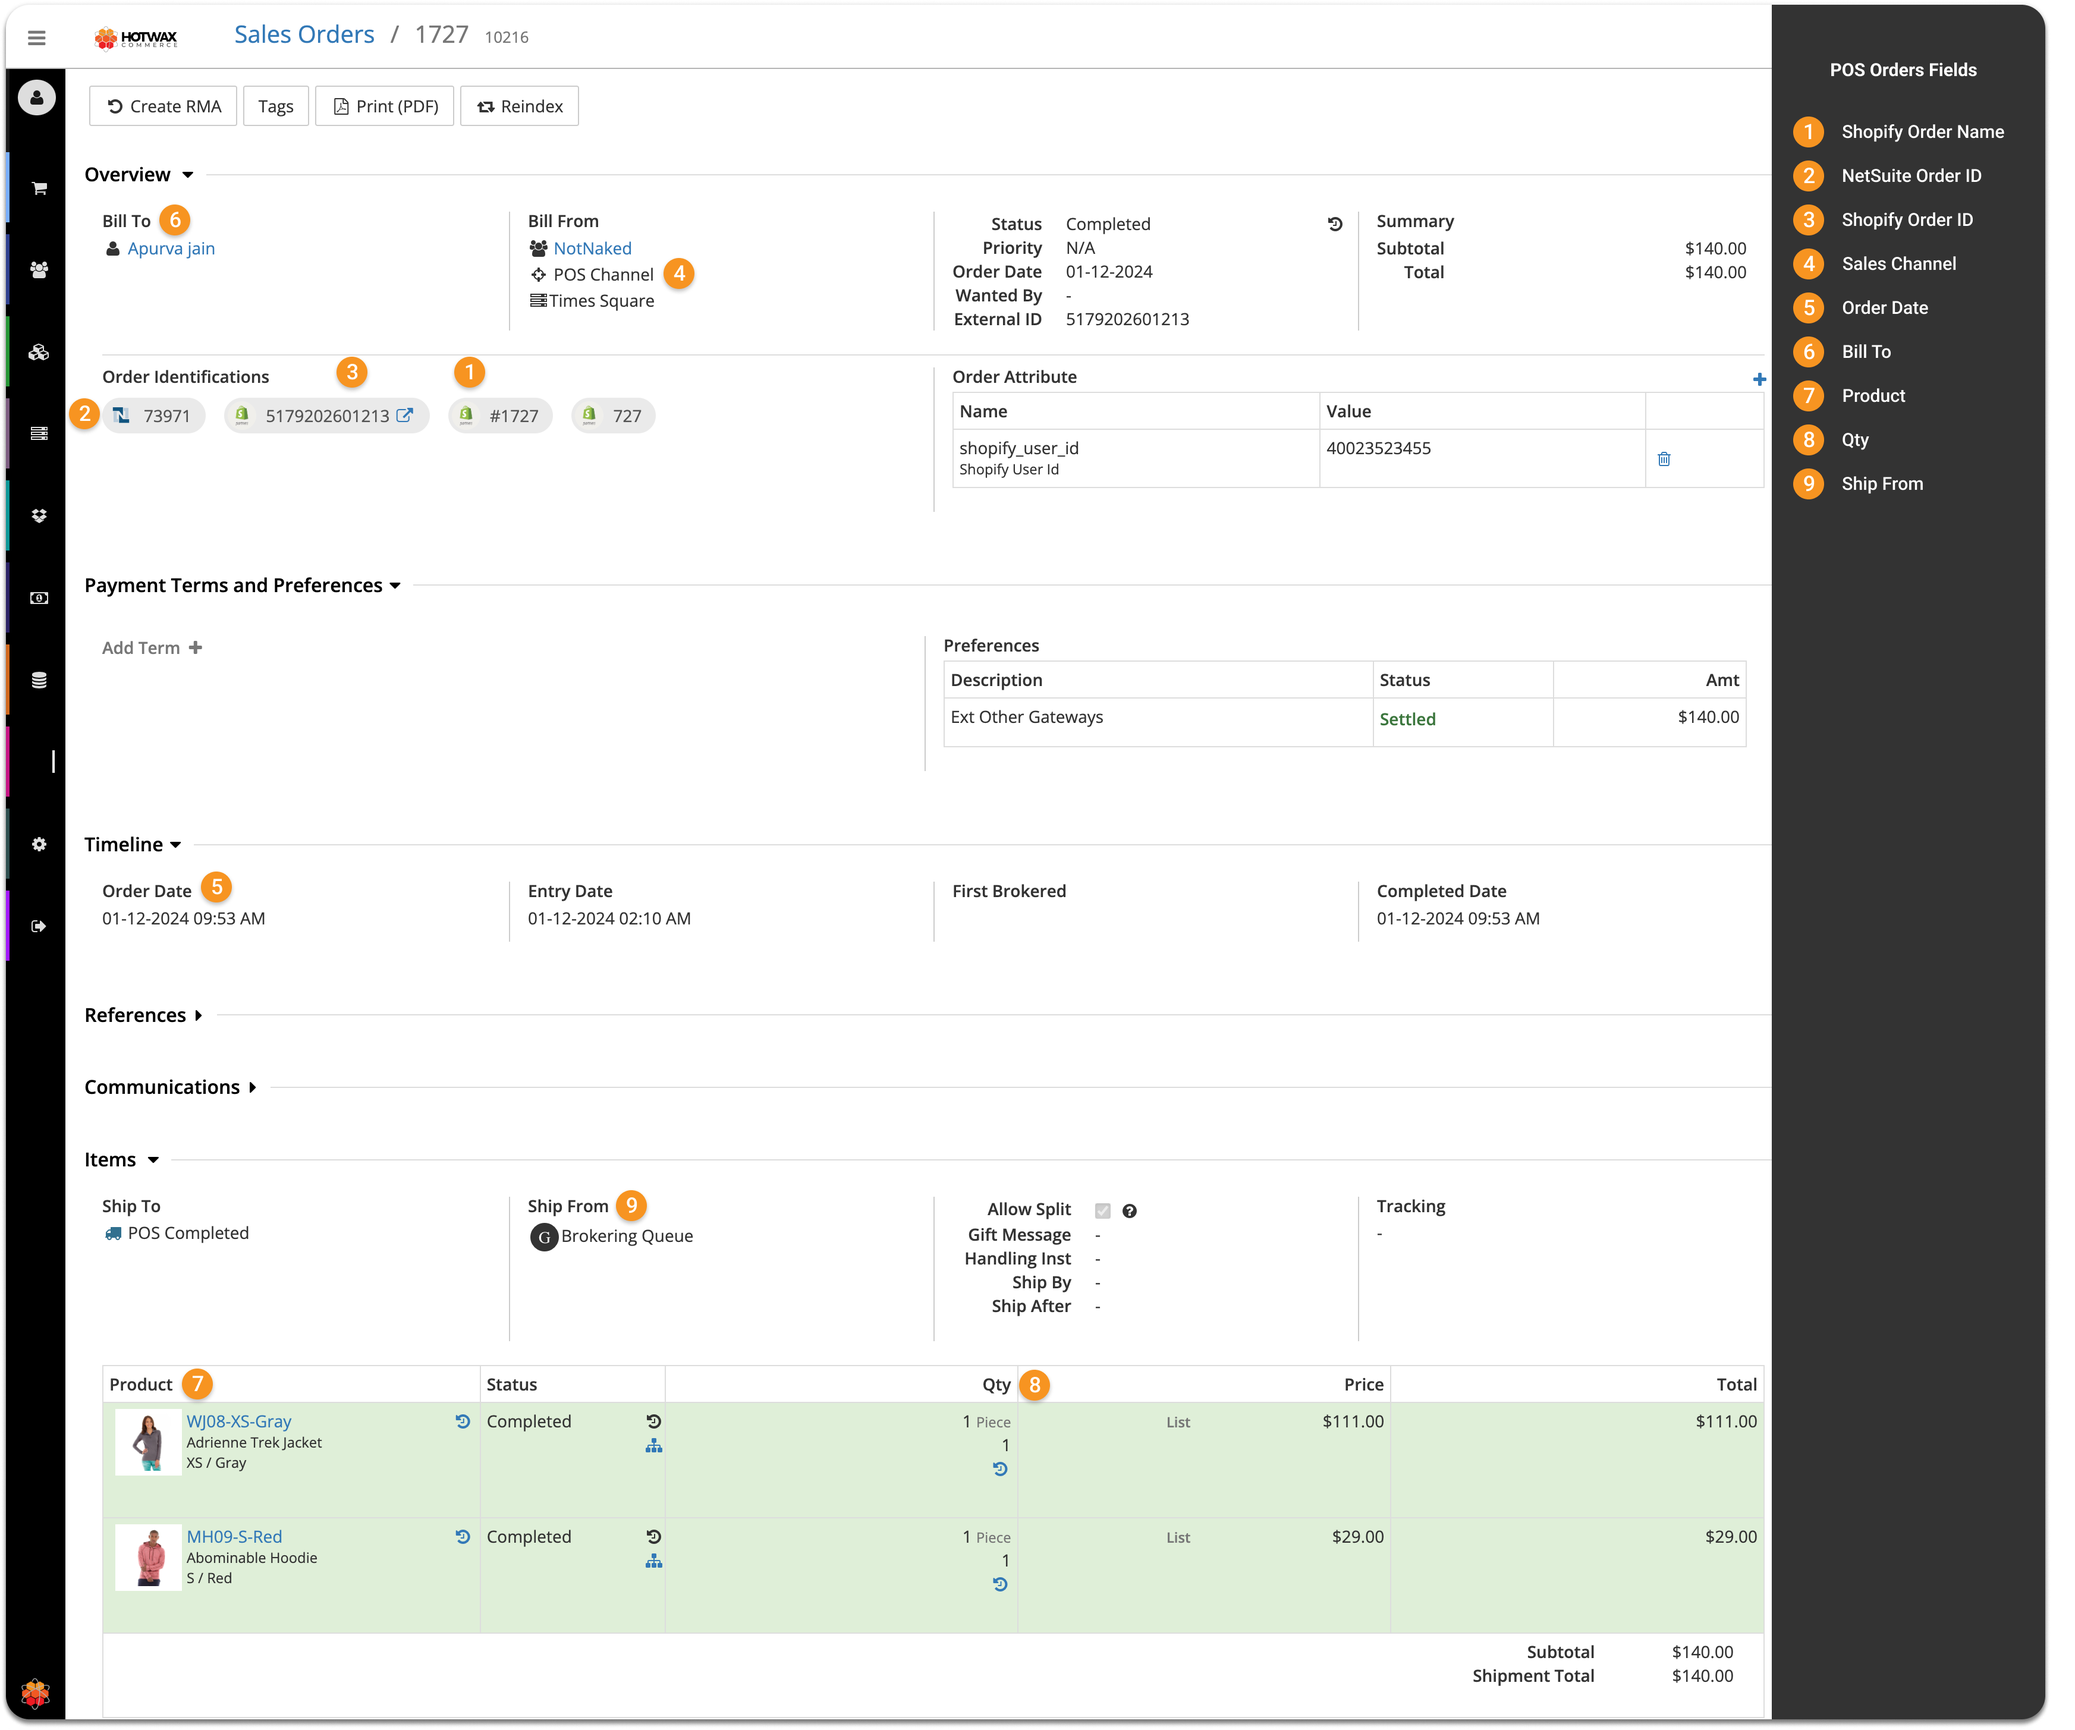
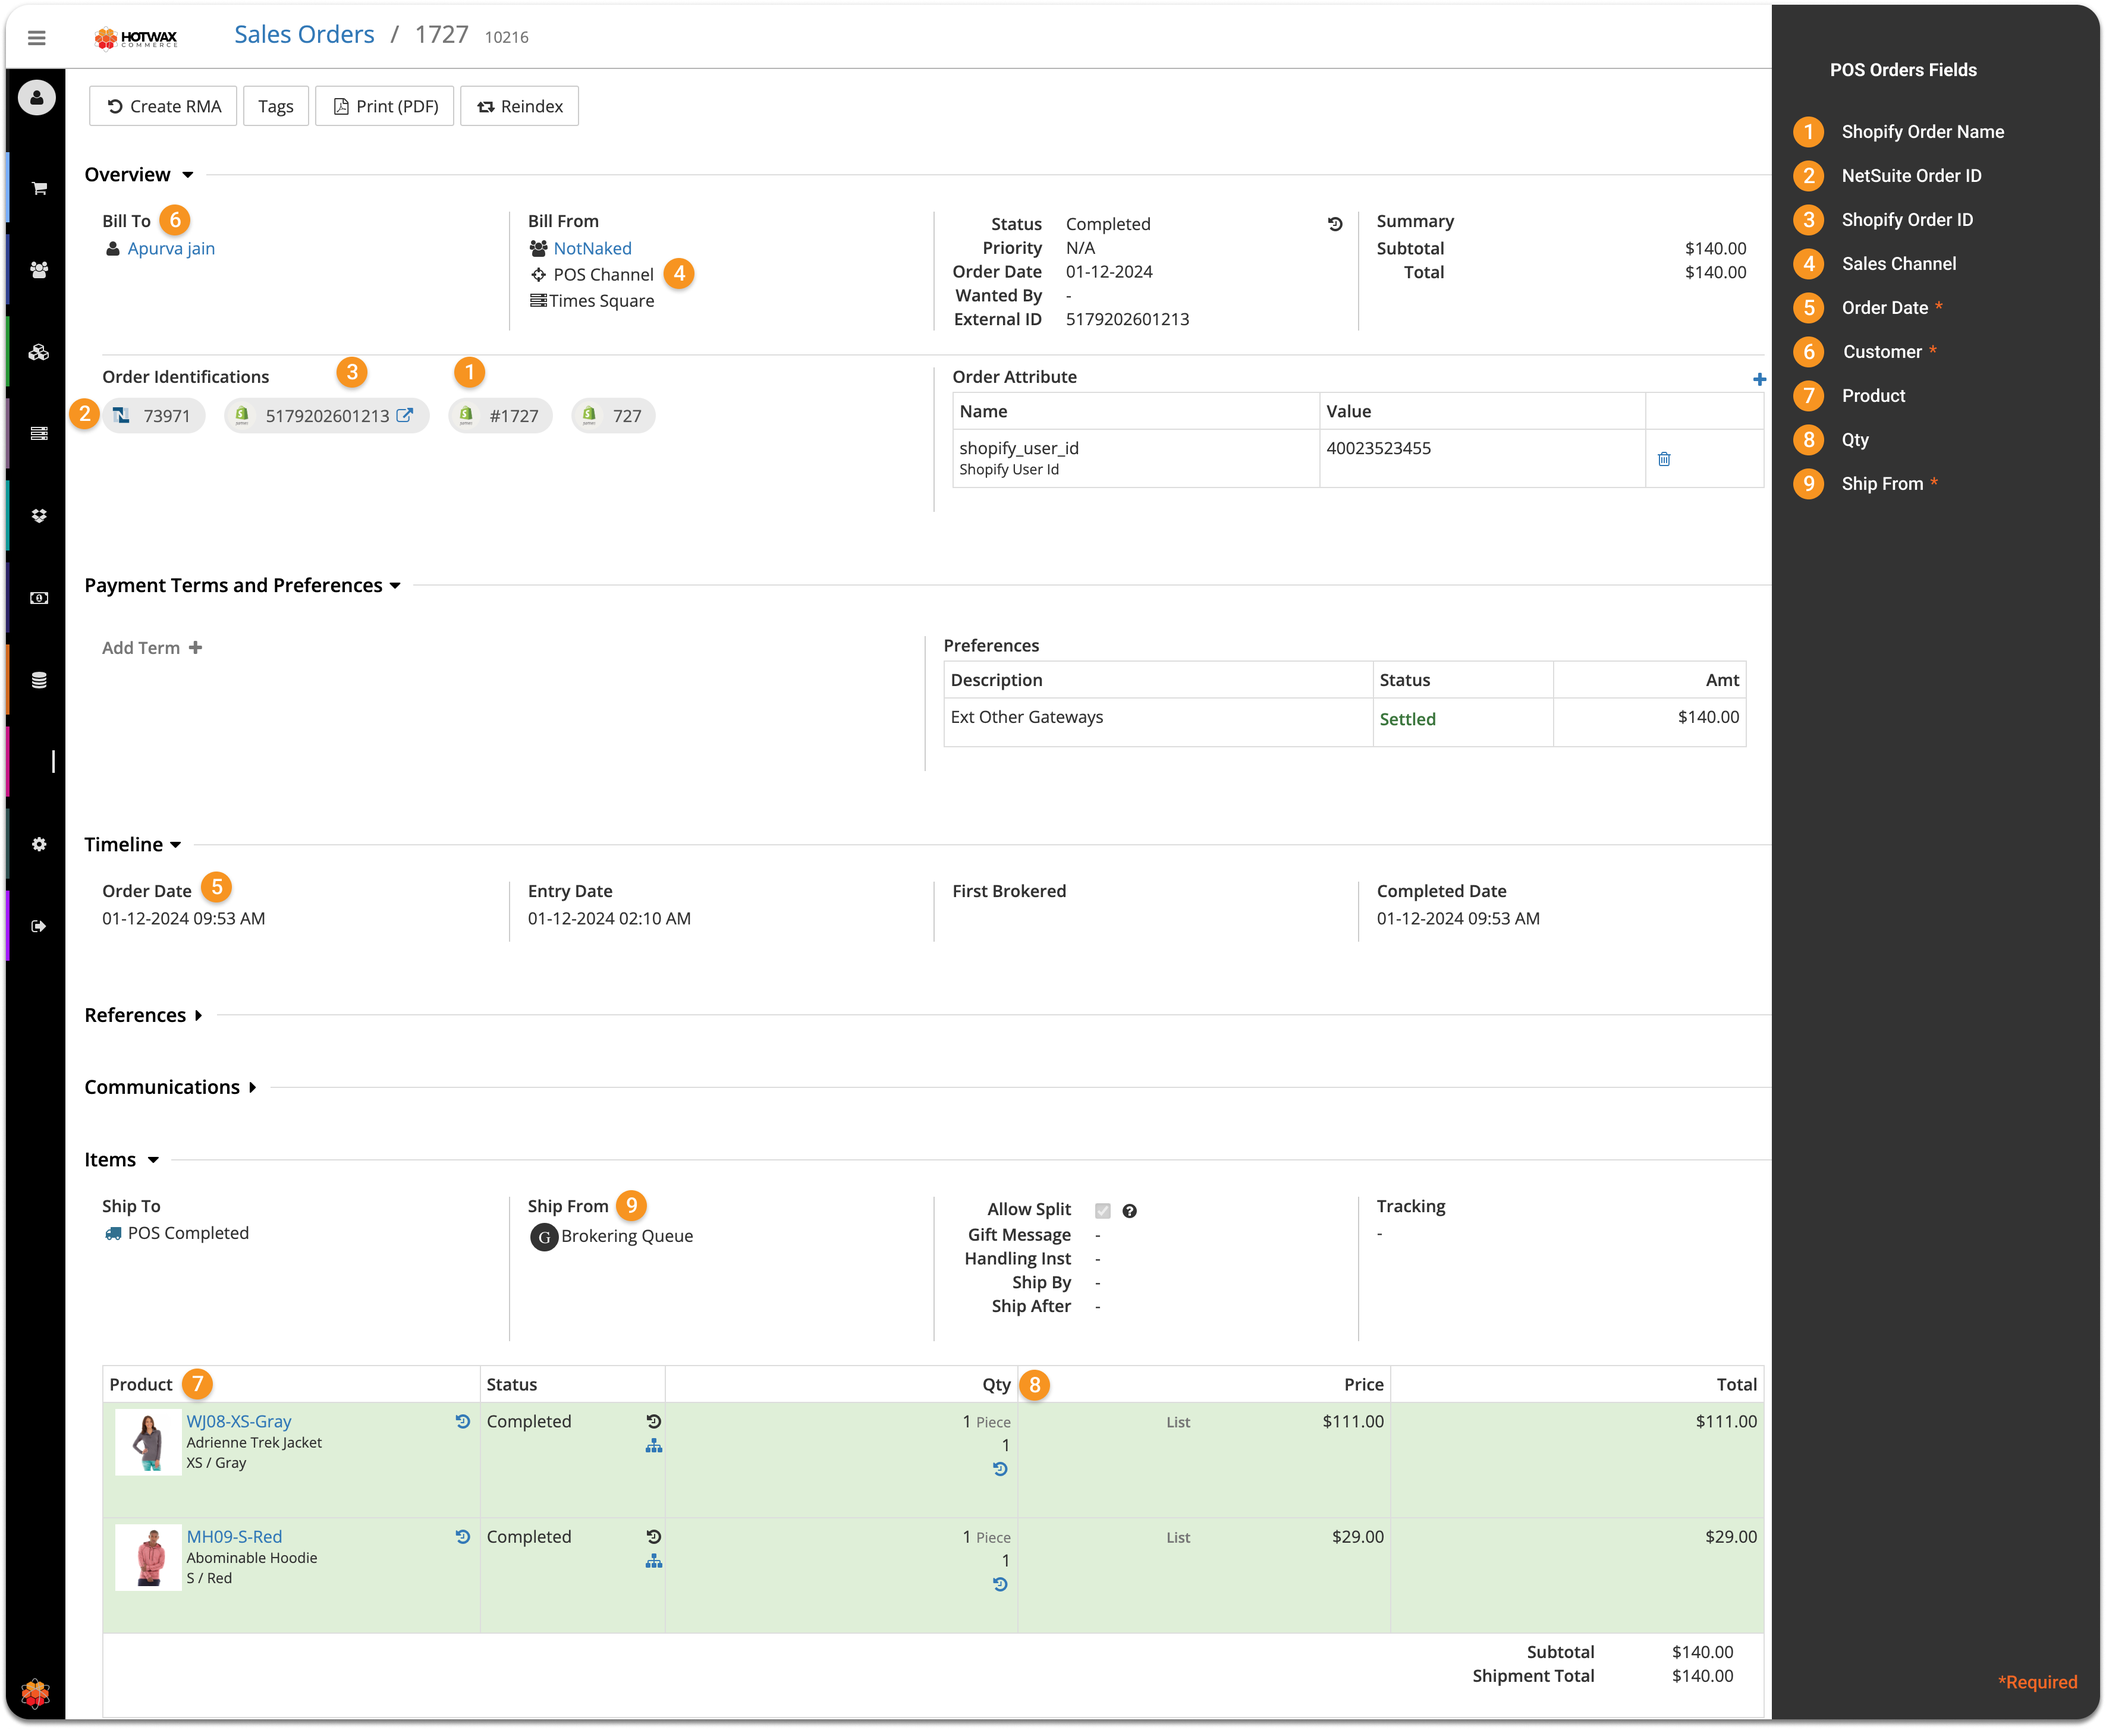
GITBOOK-97: updated mappings for pos orders

diff --git a/netsuite/Flows/SalesOrder/posOrders.md b/netsuite/Flows/SalesOrder/posOrders.md
@@ -22,9 +22,27 @@ HotWax identifies POS completed orders that need to be synced to NetSuite by che
 
 Orders that match these criteria are exported to an SFTP location in a CSV file.
 
+**SFTP Locations**
+
+```
+/home/{sftp-username}/netsuite/cashsale/export
+```
+
+{% hint style="warning" %}
+**Time based sync** HotWax uses a time based cursor to track which orders have been synced. This means if sync fails for an order, it will not be automatically retried.
+{% endhint %}
+
+A Scheduled Suite Script in NetSuite imports the file from the SFTP server. The SuiteScript uses the CSV ImportTask function of the N/Task module to import the POS order details as Cash Sale records directly into NetSuite.
+
+**SuiteScript**
+
+```
+Add suitescript name
+```
+
 #### Here's how POS order fields are mapped in HotWax Commerce and NetSuite
 
-<table><thead><tr><th width="144.97101449275362">S.No.</th><th>Fields in HotWax Commerce</th><th>Fields in NetSuite</th></tr></thead><tbody><tr><td>1</td><td>Shopify Order Name</td><td>PO #</td></tr><tr><td>2</td><td>NetSuite Order ID</td><td>POS Order Internal ID</td></tr><tr><td>3</td><td>Shopify Order ID</td><td>HC Shopify Order ID</td></tr><tr><td>4</td><td>Sales Channel</td><td>HC Sales Channel</td></tr><tr><td>5</td><td>Order Date</td><td>Date *</td></tr><tr><td>6</td><td>Bill To</td><td>Customer *</td></tr><tr><td>7</td><td>Product</td><td>Item</td></tr><tr><td>8</td><td>Qty</td><td>Quantity</td></tr><tr><td>9</td><td>Ship From</td><td>Shipping Address *</td></tr></tbody></table>
+<table><thead><tr><th width="144.97101449275362">S.No.</th><th>Fields in HotWax Commerce</th><th>Fields in NetSuite</th></tr></thead><tbody><tr><td>1</td><td>Shopify Order Name</td><td>PO #</td></tr><tr><td>2</td><td>NetSuite Order ID</td><td>POS Order Internal ID</td></tr><tr><td>3</td><td>Shopify Order ID</td><td>HC Shopify Order ID</td></tr><tr><td>4</td><td>Sales Channel</td><td>HC Sales Channel</td></tr><tr><td>5</td><td>Order Date</td><td>Date *</td></tr><tr><td>6</td><td>Bill To</td><td>Customer *</td></tr><tr><td>7</td><td>Product</td><td>Item</td></tr><tr><td>8</td><td>Qty</td><td>Quantity</td></tr><tr><td>9</td><td>Location</td><td>Location</td></tr></tbody></table>
 
 {% tabs %}
 {% tab title="POS Order Fields in HotWax Commerce" %}
@@ -43,24 +61,6 @@ Orders that match these criteria are exported to an SFTP location in a CSV file.
 {% hint style="danger" %}
 "\*" denotes fields that are required to be sent to NetSuite for the POS order sync to work
 {% endhint %}
-
-**SFTP Locations**
-
-```
-/home/{sftp-username}/netsuite/cashsale/export
-```
-
-{% hint style="warning" %}
-**Time based sync** HotWax uses a time based cursor to track which orders have been synced. This means if sync fails for an order, it will not be automatically retried.
-{% endhint %}
-
-A Scheduled Suite Script in NetSuite imports the file from the SFTP server. The SuiteScript uses the CSV ImportTask function of the N/Task module to import the POS order details as Cash Sale records directly into NetSuite.
-
-**SuiteScript**
-
-```
-Add suitescript name
-```
 
 ### Synchronize NetSuite POS Order ID to HotWax Commerce
 
